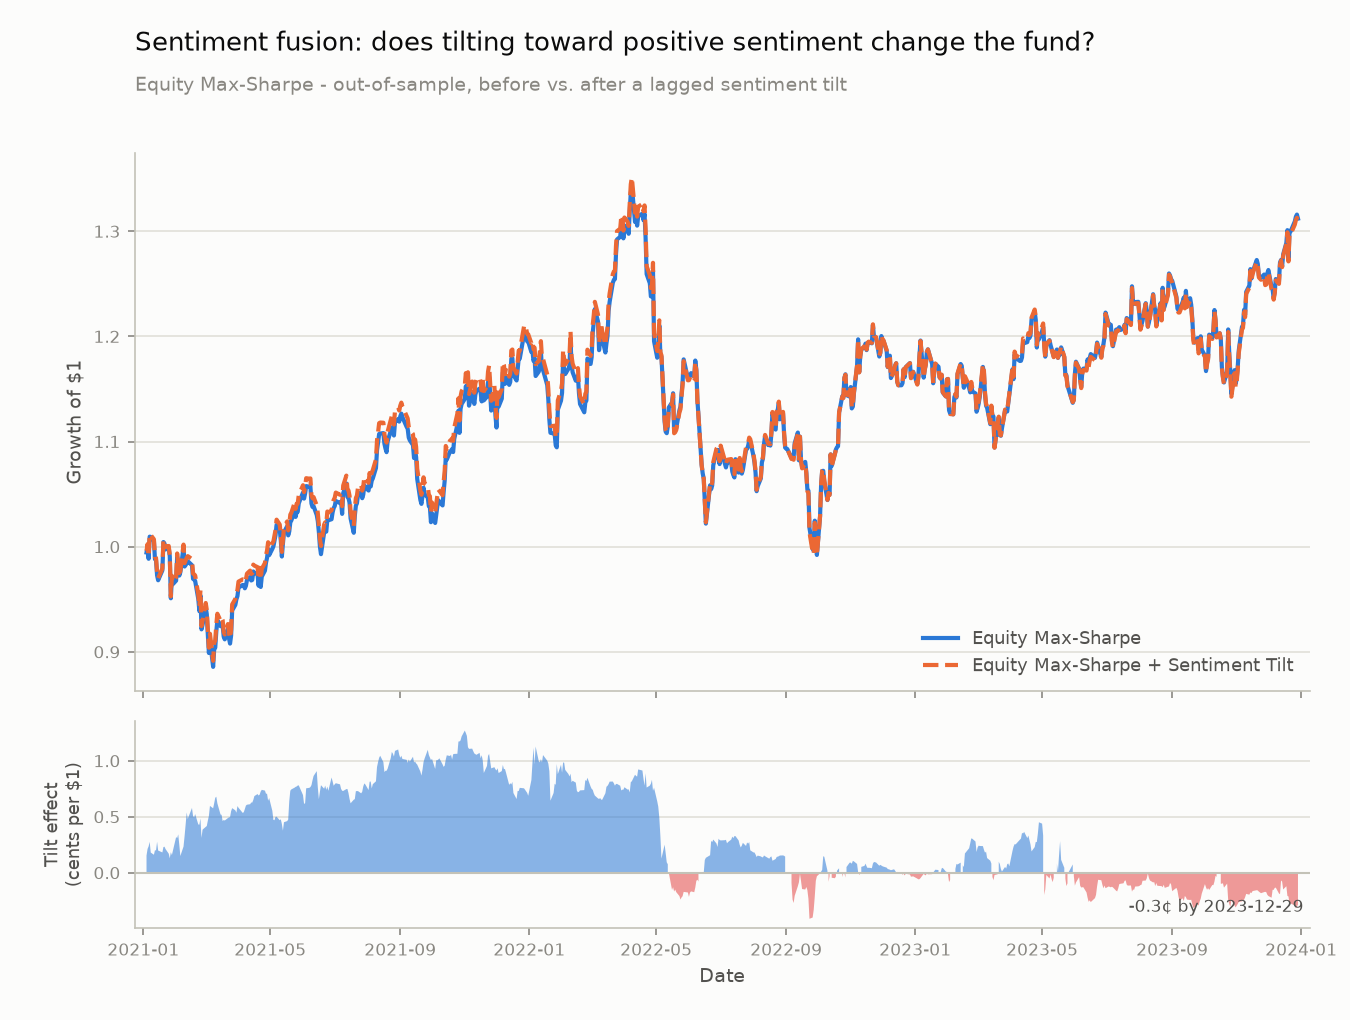
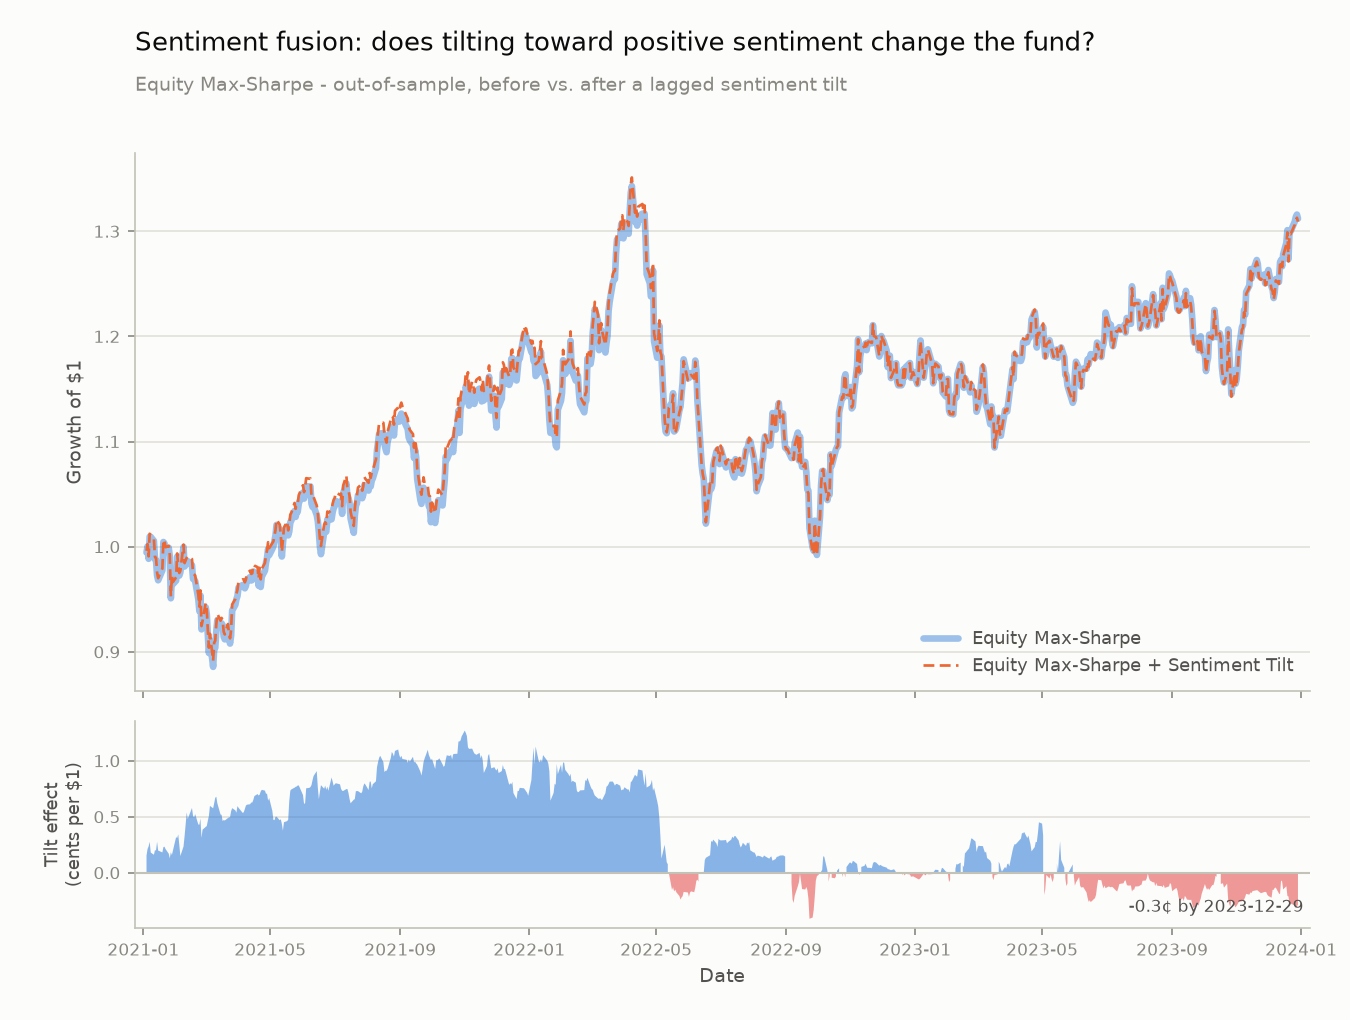
Make the two fusion lines visually distinct: thick pale base line behind a thin crisp dashed tilt line

Changed region(s): [[0.0933, 0.1824, 0.6222, 0.6382], [0.6222, 0.2127, 0.9644, 0.4255], [0.6844, 0.6078, 0.7156, 0.6382]]

diff --git a/scripts/run_part_b.py b/scripts/run_part_b.py
@@ -221,10 +221,15 @@ def fusion_comparison(funds: dict, fused_name: str, perf_table: pd.DataFrame):
                                                  "top": 0.85, "bottom": 0.09, "left": 0.1, "right": 0.97})
     fig.patch.set_facecolor(SURFACE)
 
-    ax1.plot(base_growth.index, base_growth.values, color=BLUE, linewidth=2,
-              label=FUSION_BASE_FUND, zorder=3)
-    ax1.plot(fused_growth.index, fused_growth.values, color=ORANGE, linewidth=2, linestyle="--",
-              label=fused_name, zorder=3)
+    # The two series are within a few cents of each other almost everywhere, so
+    # equal-weight lines just merge into one blob. Instead: a thick, pale line
+    # for the base fund sits BEHIND a thin, crisp dashed line for the fused
+    # fund - wherever they diverge, the pale line pokes out as a visible edge
+    # rather than the two strokes fighting for the same pixels.
+    ax1.plot(base_growth.index, base_growth.values, color=BLUE, linewidth=3.2,
+              alpha=0.45, solid_capstyle="round", label=FUSION_BASE_FUND, zorder=2)
+    ax1.plot(fused_growth.index, fused_growth.values, color=ORANGE, linewidth=1.3,
+              linestyle=(0, (4, 2)), label=fused_name, zorder=3)
     _style_axis(ax1)
     ax1.set_ylabel("Growth of $1", color=INK_SECONDARY, fontsize=9)
     fig.text(0.1, 0.97, "Sentiment fusion: does tilting toward positive sentiment change the fund?",
